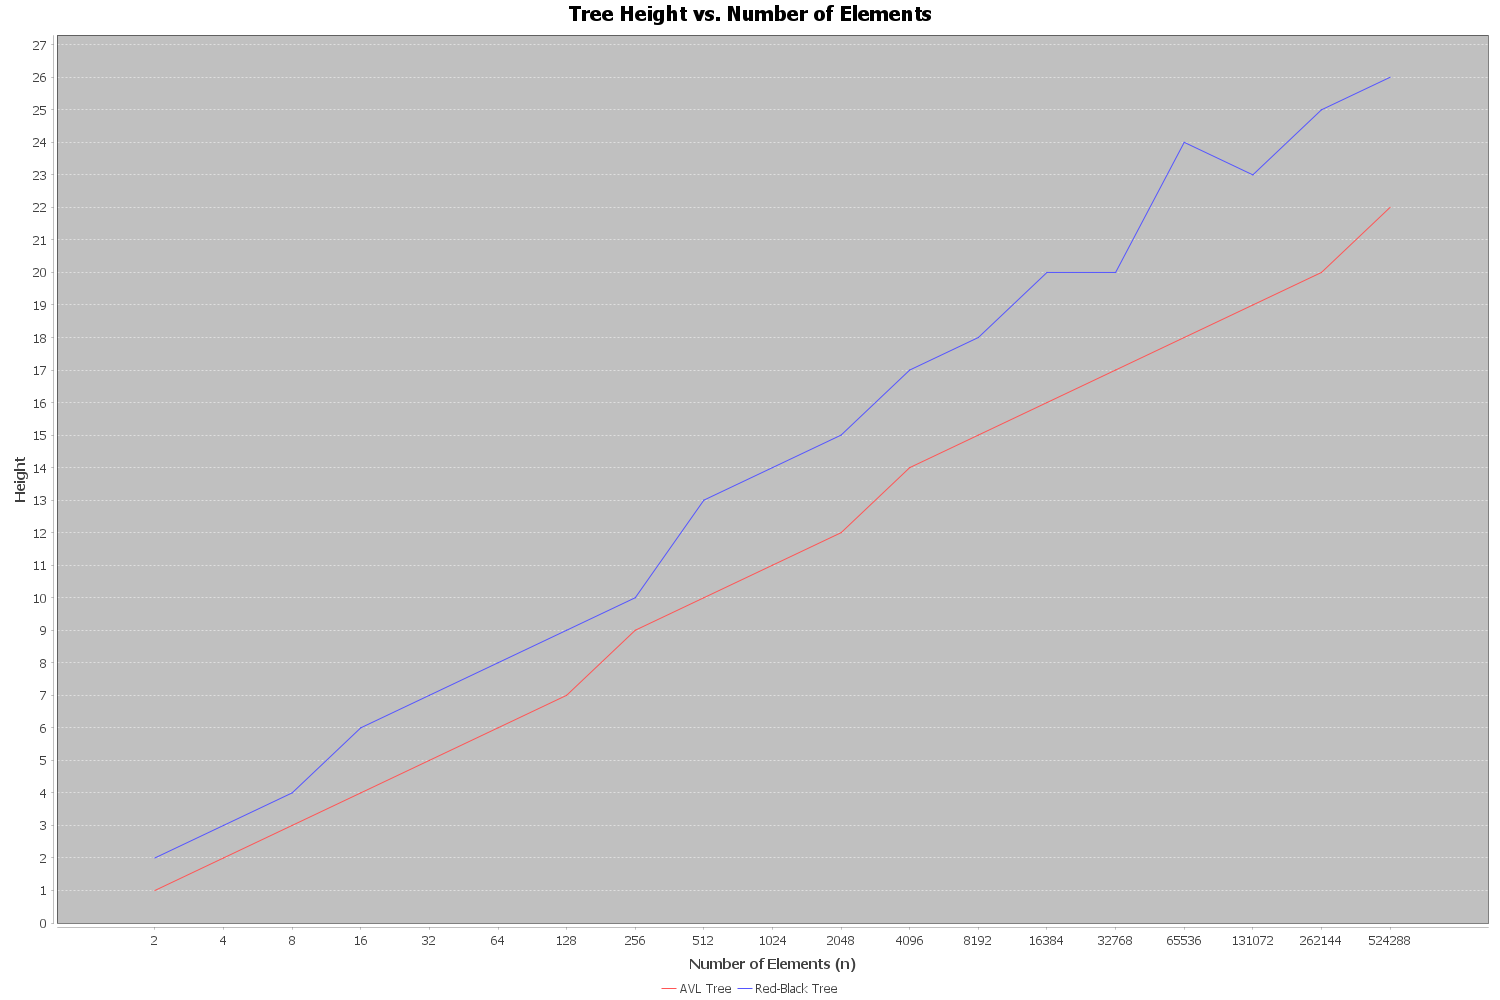
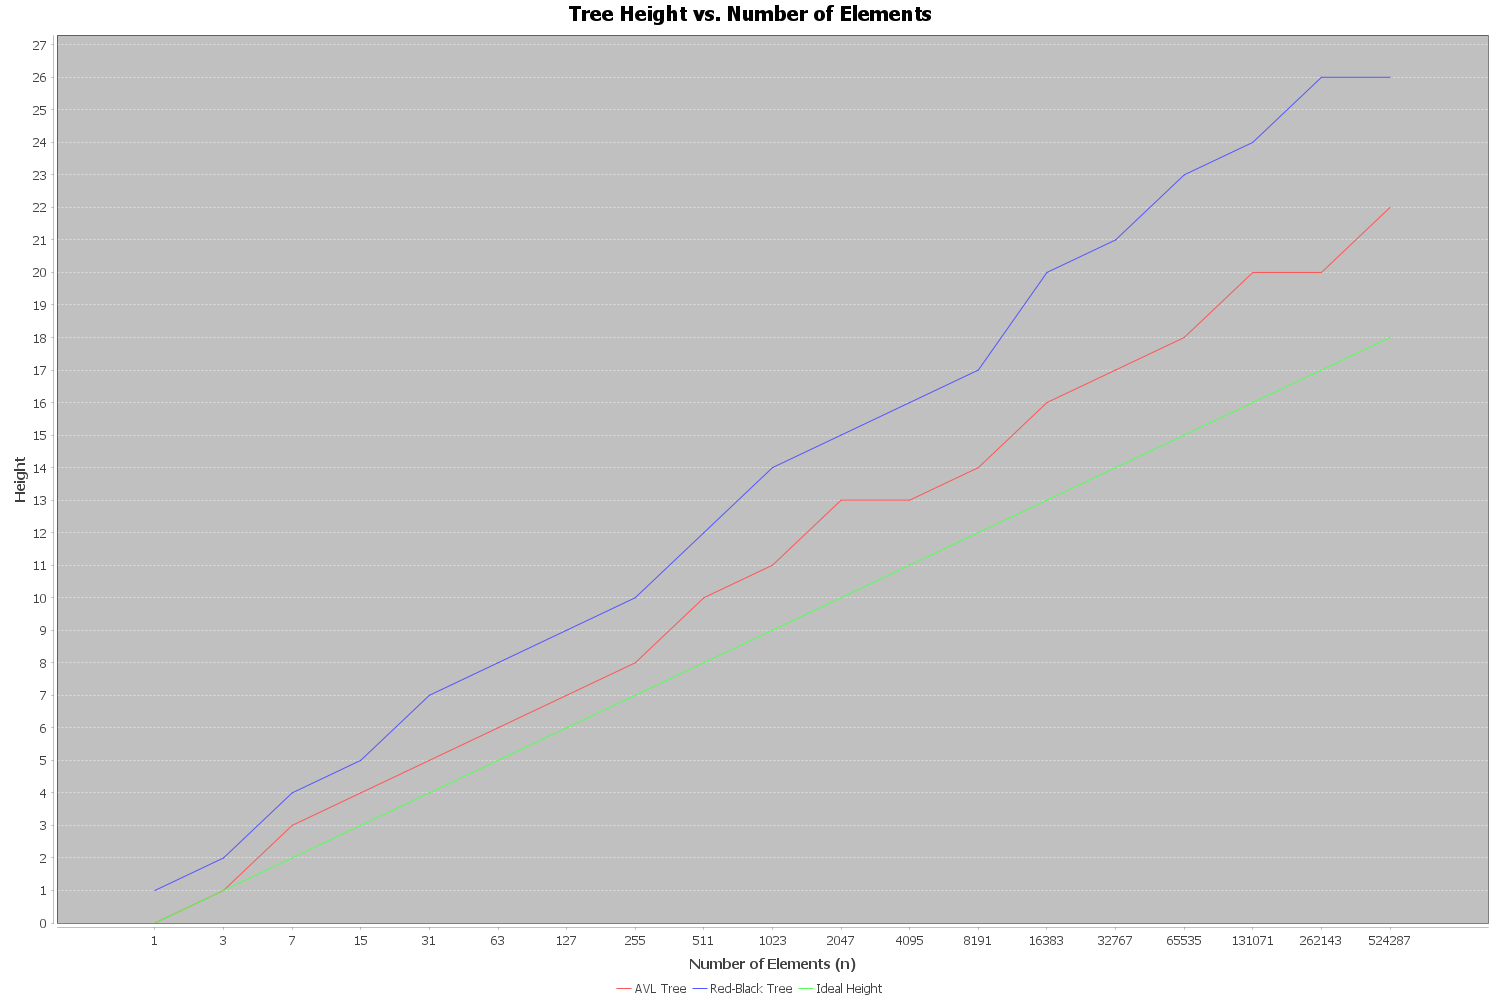
Plotting the ideal height line in height plotting

Changed region(s): [[0.4907, 0.961, 0.552, 0.992], [0.552, 0.496, 0.5827, 0.527], [0.1533, 0.837, 0.184, 0.868]]

diff --git a/SelfBalancedBSTs/src/main/java/Plotting/HeightBenchmark.java b/SelfBalancedBSTs/src/main/java/Plotting/HeightBenchmark.java
@@ -15,28 +15,33 @@ public class HeightBenchmark {
         List<Integer> ns = new ArrayList<>();
         List<Double> avlHeights = new ArrayList<>();
         List<Double> rbHeights = new ArrayList<>();
+        List<Double> idealHeights = new ArrayList<>();
 
         Random rand = new Random();
 
-        for (int n = START; n <= END; n *= FACTOR) {
-            ns.add(n);
+        for (int n = START, idealHeight = 0; n <= END; n *= FACTOR, idealHeight++) {
+            int items = n - 1;
+            ns.add(items);
 
-            List<Integer> keys = new ArrayList<>(rand.ints().distinct().limit(n).boxed().toList());
+            List<Integer> keys = new ArrayList<>(rand.ints().distinct().limit(items).boxed().toList());
 
             double avlHeight = measureHeight(AVLSet::new, keys);
             double rbHeight = measureHeight(RedBlackSet::new, keys);
 
             avlHeights.add(avlHeight);
             rbHeights.add(rbHeight);
+            idealHeights.add((double)idealHeight);
 
-            System.out.printf("n = %d → AVL height: %.1f, RB height: %.1f%n", n, avlHeight, rbHeight);
+            System.out.printf("n = %d → AVL height: %.1f, RB height: %.1f%n", items, avlHeight, rbHeight);
         }
 
         ChartPlotter.plotAndSave(
-                ns, avlHeights, rbHeights,
-                "AVL Tree", "Red-Black Tree",
+                ns,
+                new List[]{avlHeights, rbHeights, idealHeights},
+                new String[]{"AVL Tree", "Red-Black Tree", "Ideal Height"},
                 "Tree Height vs. Number of Elements",
-                "Number of Elements (n)", "Height",
+                "Number of Elements (n)",
+                "Height",
                 "height_chart.png"
         );
     }

diff --git a/SelfBalancedBSTs/src/main/java/Plotting/ChartPlotter.java b/SelfBalancedBSTs/src/main/java/Plotting/ChartPlotter.java
@@ -17,22 +17,28 @@ public class ChartPlotter {
 
     public static void plotAndSave(
             List<Integer> ns,
-            List<Double> series1,
-            List<Double> series2,
-            String label1,
-            String label2,
+            List<Double>[] series,
+            String[] labels,
             String title,
             String xAxis,
             String yAxis,
             String outputFile) throws IOException {
+
+        if (series.length != labels.length) {
+            throw new IllegalArgumentException("Number of series and labels must be the same");
+        }
+
         DefaultCategoryDataset dataset = new DefaultCategoryDataset();
         for (int i = 0; i < ns.size(); i++) {
-            dataset.addValue(series1.get(i), label1, ns.get(i));
-            dataset.addValue(series2.get(i), label2, ns.get(i));
+            for (int s = 0; s < series.length; s++) {
+                dataset.addValue(series[s].get(i), labels[s], ns.get(i));
+            }
         }
+
         JFreeChart chart = ChartFactory.createLineChart(
                 title, xAxis, yAxis, dataset,
                 PlotOrientation.VERTICAL, true, true, false);
+
         ChartUtils.saveChartAsPNG(new File(outputFile), chart, 1500, 1000);
         SwingUtilities.invokeLater(() -> {
             JFrame f = new JFrame(title);

diff --git a/SelfBalancedBSTs/src/main/java/Plotting/InsertionBenchmark.java b/SelfBalancedBSTs/src/main/java/Plotting/InsertionBenchmark.java
@@ -36,12 +36,15 @@ public class InsertionBenchmark {
         }
 
         ChartPlotter.plotAndSave(
-                ns, avlTimes, rbTimes,
-                "AVL Tree", "Red-Black Tree",
+                ns,
+                new List[]{avlTimes, rbTimes},
+                new String[]{"AVL Tree", "Red-Black Tree"},
                 "Insertion Time vs. Number of Elements",
-                "Number of Elements (n)", "Time (ms)",
+                "Number of Elements (n)",
+                "Time (ms)",
                 "insertion_time_chart.png"
         );
+
     }
 
     private static double measureInsertionTime(Supplier<BSTSet<Integer>> setSupplier, List<Integer> keys) {

diff --git a/SelfBalancedBSTs/src/main/java/Plotting/SearchBenchmark.java b/SelfBalancedBSTs/src/main/java/Plotting/SearchBenchmark.java
@@ -33,12 +33,15 @@ public class SearchBenchmark {
         }
 
         ChartPlotter.plotAndSave(
-                ns, avlTimes, rbTimes,
-                "AVL Tree", "Red-Black Tree",
+                ns,
+                new List[]{avlTimes, rbTimes},
+                new String[]{"AVL Tree", "Red-Black Tree"},
                 "Search Time vs. Number of Elements",
-                "Number of Elements (n)", "Time (ms)",
+                "Number of Elements (n)",
+                "Time (ms)",
                 "search_time_chart.png"
         );
+
     }
 
     private static double measureSearchTime(Supplier<BSTSet<Integer>> setSupplier, List<Integer> keys) {
